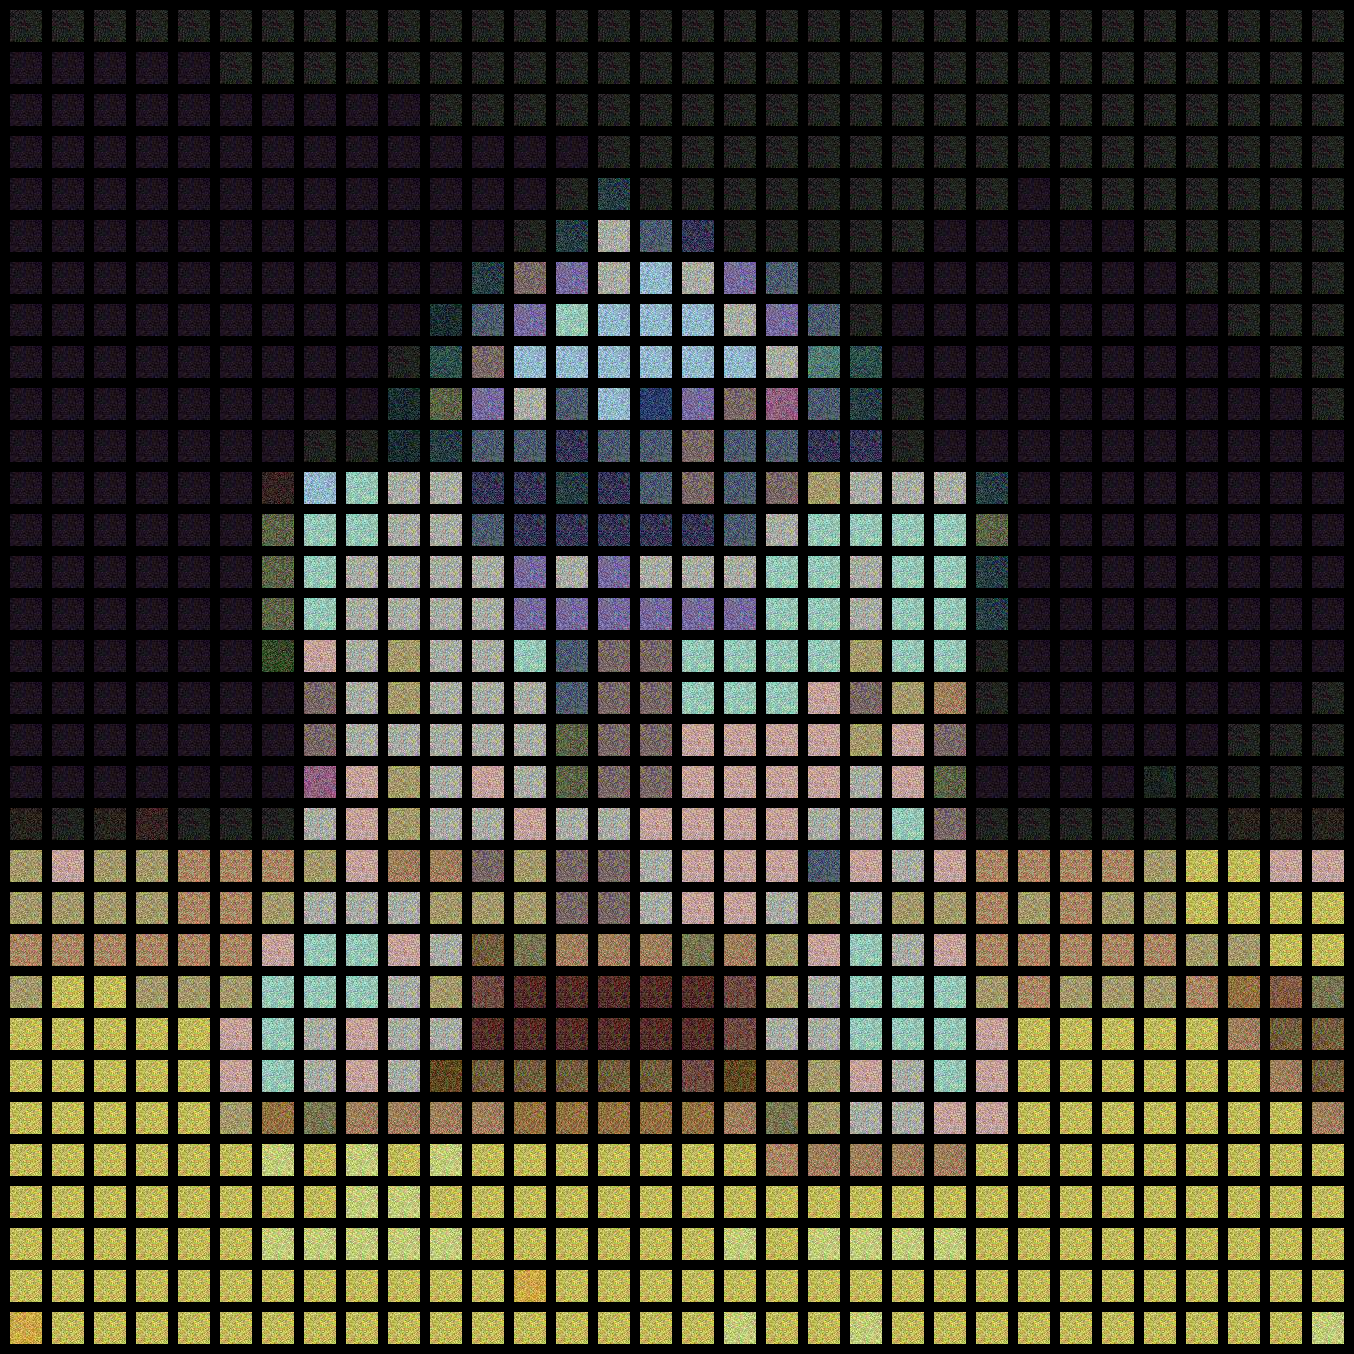
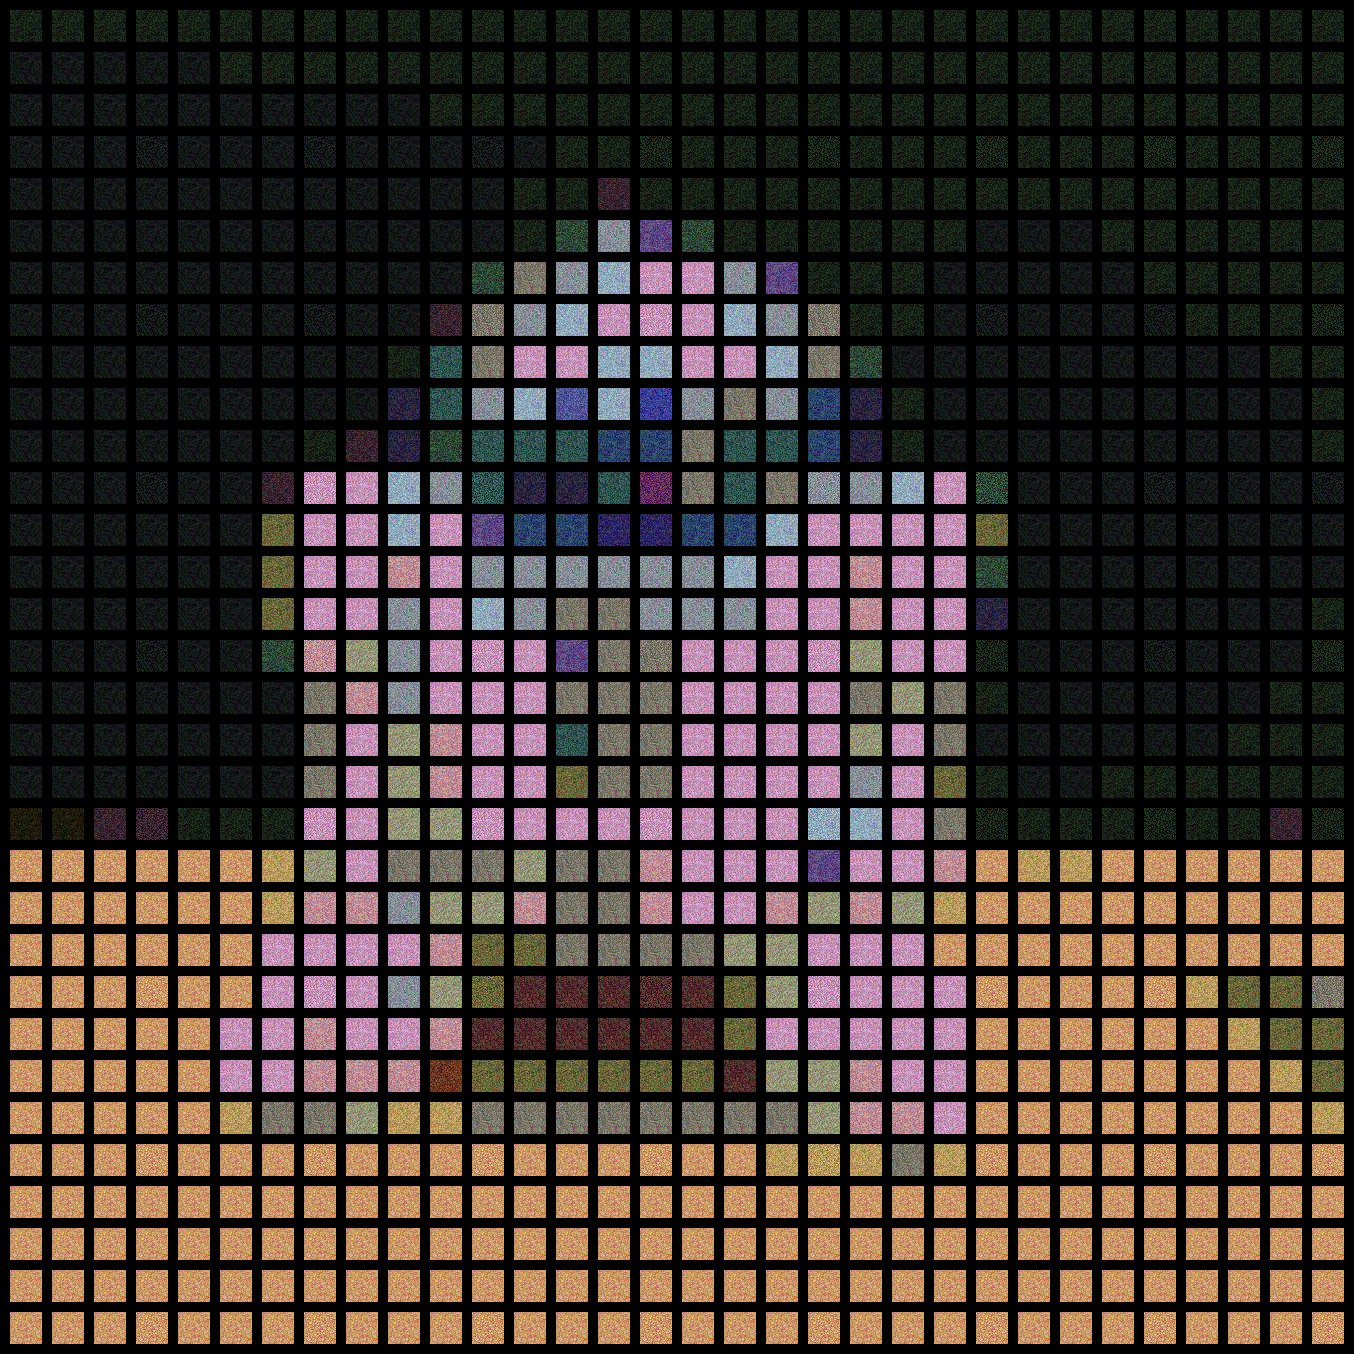
using amazing tool scipy KDTree

diff --git a/mosaic/mosaic.py b/mosaic/mosaic.py
@@ -4,6 +4,8 @@ import sys
 import random
 import argparse
 import numpy as np
+
+from scipy.spatial import KDTree
 from PIL import Image
 
 def genrateMosaic(size, folder):
@@ -29,11 +31,6 @@ def removeMosaic(folder):
     for file in os.listdir(folder):
         path = os.path.abspath(os.path.join(folder, file))
         os.remove(path)
-
-def RGBDistance(color_a, color_b):
-    r1, g1, b1 = color_a
-    r2, g2, b2 = color_b
-    return (r1-r2) ** 2 + (g1-g2) ** 2 + (b1-b2) ** 2
 
 def getImage(imageDir):
     files = os.listdir(imageDir)
@@ -64,18 +61,6 @@ def splitImage(image, size):
             imgs.append(image.crop((i*w, j*h, (i+1)*w, (j+1)*h)))
     return imgs
 
-def getBestMatchIndex(input_avg, avgs):
-    avg = input_avg
-    min_index = 0
-    min_dist = float("inf")
-    for index in range(len(avgs)):
-        val = avgs[index]
-        distance = RGBDistance(val, avg)
-        if distance < min_dist:
-            min_dist = distance
-            min_index = index
-    return min_index
-
 def createImageGrid(images, dims):
     m, n = dims
     assert m*n == len(images)
@@ -102,9 +87,11 @@ def createPhotomosaic(target_image, input_images, grid_size, reuse_image=True):
     for img in input_images:
         avgs.append(getAverageRGB(img))
 
+    avgs = np.array(avgs)
+    tree = KDTree(avgs)
     for img in target_images:
         avg = getAverageRGB(img)
-        match_index = getBestMatchIndex(avg, avgs)
+        match_index = tree.query(avg)[1]
         output_images.append(input_images[match_index])
 
         if count > 0 and batch_size > 10 and count % batch_size == 0:
@@ -144,9 +131,7 @@ def main():
     grid_size = (args.grid_size[0], args.grid_size[1])
 
     output_filename = args.output_file
-
     reuse_images = True
-
     resize_input = True
 
     print('[*] Starting photomosaic creation...')
@@ -169,7 +154,7 @@ def main():
         img.thumbnail(dims)
 
     mosaic_image = createPhotomosaic(target_image, input_images, grid_size,
-                                   reuse_images)
+                                     reuse_images)
 
     mosaic_image.save(output_filename, 'PNG')
 
